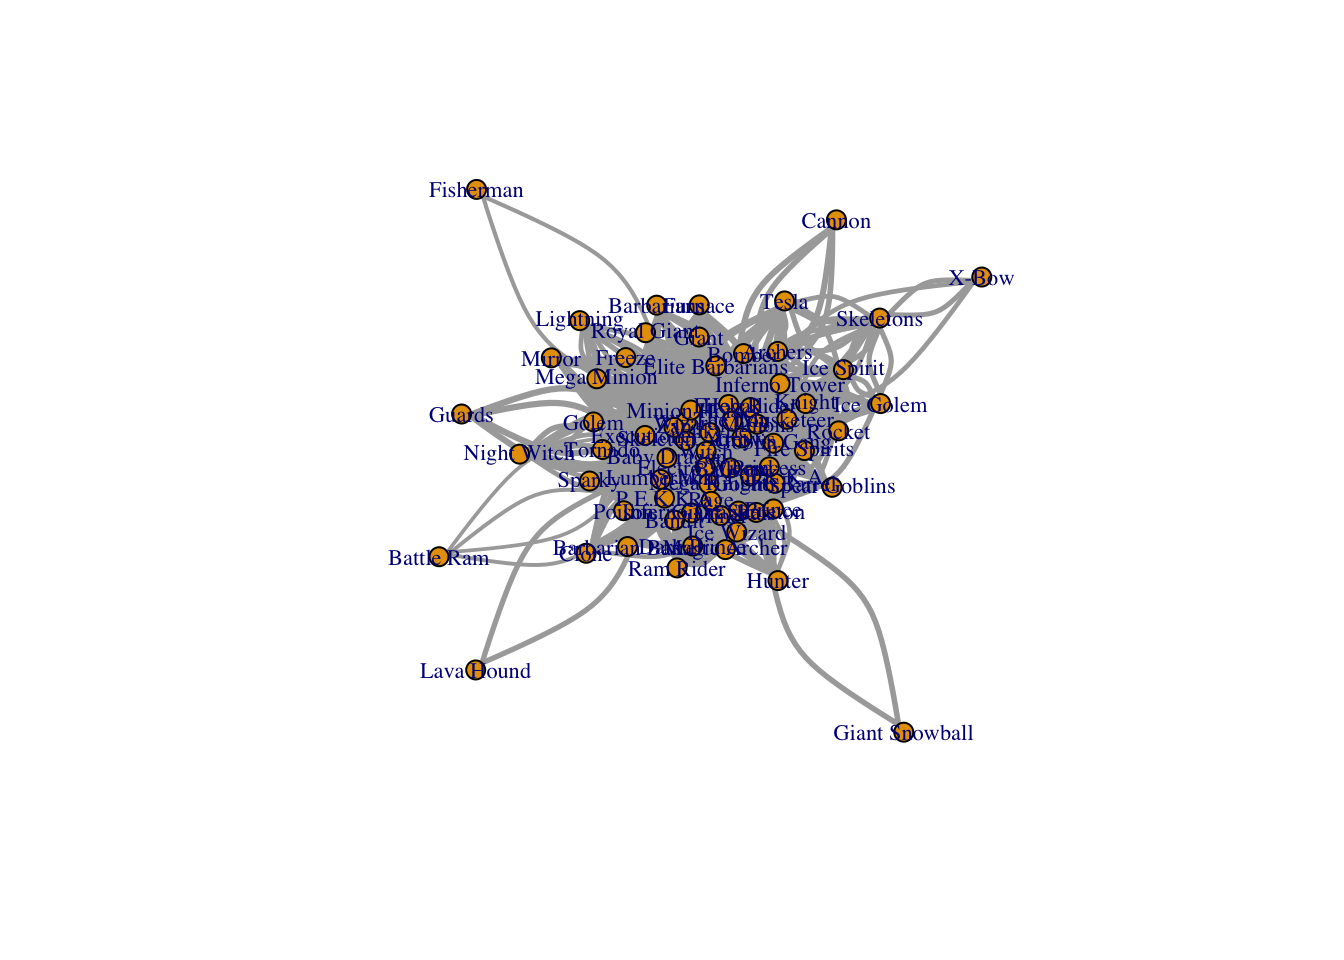
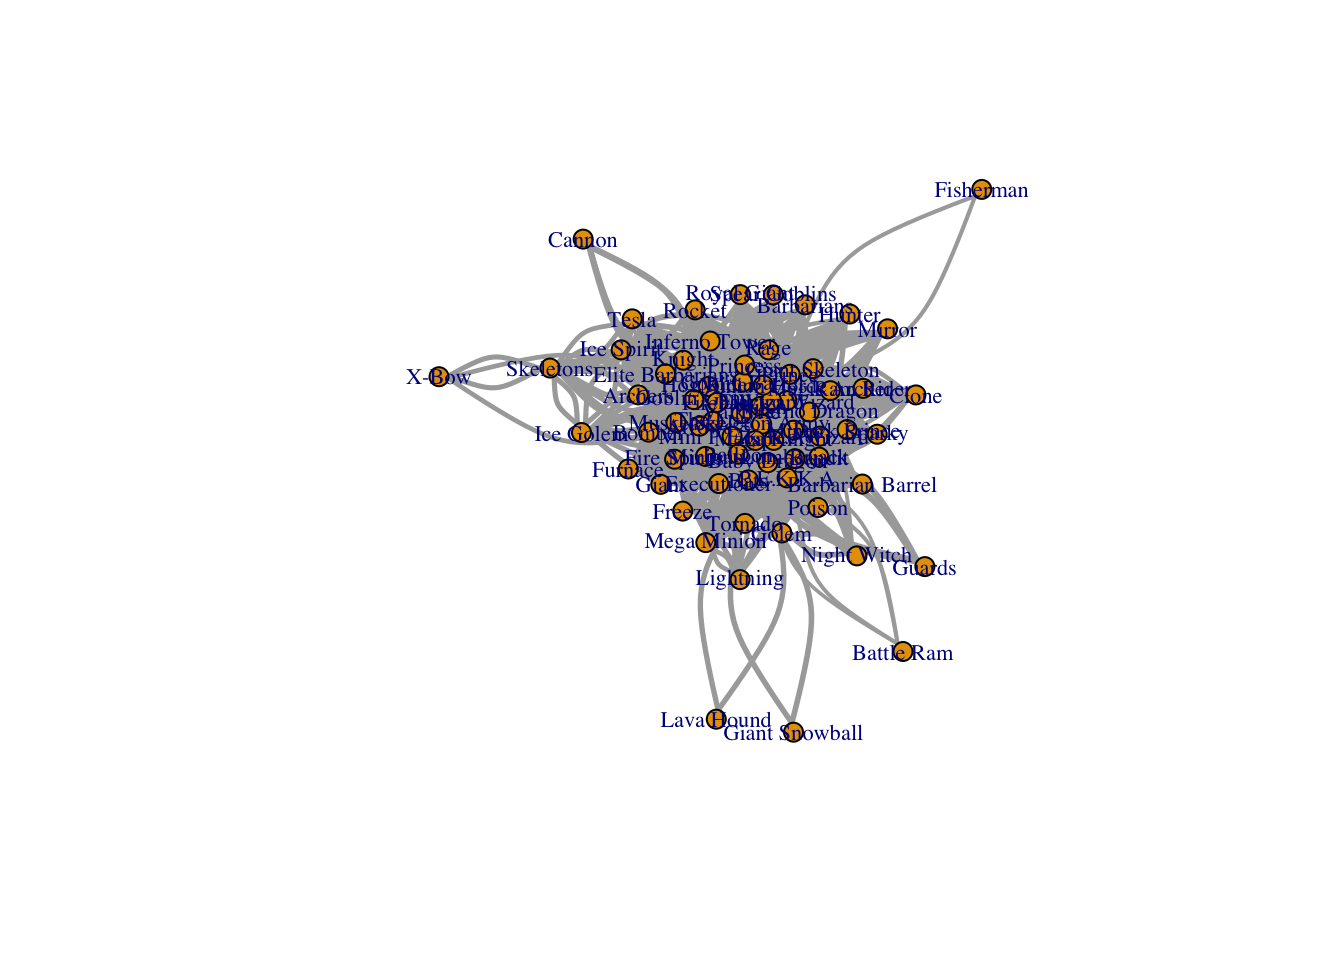
update

Changed region(s): [[0.2812, 0.1875, 0.7812, 0.7812], [0.3125, 0.625, 0.4062, 0.7188], [0.4062, 0.625, 0.4375, 0.6562]]

diff --git a/kevineuyoque/clash_royale/ClashRoyaleDraft.html b/kevineuyoque/clash_royale/ClashRoyaleDraft.html
@@ -241,9 +241,9 @@ pre > code.sourceCode > span > a:first-child::before { text-decoration: underlin
 <span id="cb11-5"><a href="#cb11-5" aria-hidden="true" tabindex="-1"></a></span>
 <span id="cb11-6"><a href="#cb11-6" aria-hidden="true" tabindex="-1"></a>network</span></code><button title="Copy to Clipboard" class="code-copy-button"><i class="bi"></i></button></pre></div>
 <div class="cell-output cell-output-stdout">
-<pre><code>IGRAPH f56ed7f UN-- 69 1572 -- 
+<pre><code>IGRAPH 65d95e6 UN-- 69 1572 -- 
 + attr: name (v/c), decks (e/n), wins (e/n), winrate (e/n)
-+ edges from f56ed7f (vertex names):
++ edges from 65d95e6 (vertex names):
  [1] Hog Rider     --Zap Valkyrie      --Zap Giant Skeleton--Zap
  [4] Baby Dragon   --Zap Mini P.E.K.K.A--Zap Witch         --Zap
  [7] Musketeer     --Zap Balloon       --Zap Arrows        --Zap
@@ -255,7 +255,14 @@ pre > code.sourceCode > span > a:first-child::before { text-decoration: underlin
 + ... omitted several edges</code></pre>
 </div>
 </div>
-<p>In this we see there are 69 cards that pass the greater than 50 decks filter - 69 nodes There is a total of 1572 card pair connections - 1572 edges</p>
+<p>In this we see there are 69 cards that pass the greater than 50 decks filter</p>
+<ul>
+<li>69 nodes</li>
+</ul>
+<p>There is a total of 1572 card pair connections</p>
+<ul>
+<li>1572 edges</li>
+</ul>
 <section id="nodes" class="level2" data-number="2.1">
 <h2 data-number="2.1" class="anchored" data-anchor-id="nodes"><span class="header-section-number">2.1</span> Nodes</h2>
 <p>A node represents one Clash Royale card.</p>
@@ -301,6 +308,8 @@ pre > code.sourceCode > span > a:first-child::before { text-decoration: underlin
 </figure>
 </div>
 </div>
+</div>
+<div class="cell">
 <div class="sourceCode cell-code" id="cb14"><pre class="sourceCode r code-with-copy"><code class="sourceCode r"><span id="cb14-1"><a href="#cb14-1" aria-hidden="true" tabindex="-1"></a><span class="co"># find most connected cards</span></span>
 <span id="cb14-2"><a href="#cb14-2" aria-hidden="true" tabindex="-1"></a>card_degree <span class="ot">&lt;-</span> <span class="fu">degree</span>(network)</span>
 <span id="cb14-3"><a href="#cb14-3" aria-hidden="true" tabindex="-1"></a><span class="fu">sort</span>(card_degree, <span class="at">decreasing =</span> <span class="cn">TRUE</span>)[<span class="dv">1</span><span class="sc">:</span><span class="dv">10</span>]</span></code><button title="Copy to Clipboard" class="code-copy-button"><i class="bi"></i></button></pre></div>
@@ -317,17 +326,19 @@ pre > code.sourceCode > span > a:first-child::before { text-decoration: underlin
 <span id="cb16-5"><a href="#cb16-5" aria-hidden="true" tabindex="-1"></a></span>
 <span id="cb16-6"><a href="#cb16-6" aria-hidden="true" tabindex="-1"></a>network_small <span class="ot">&lt;-</span> <span class="fu">graph_from_data_frame</span>(pair_data_small, <span class="at">directed =</span> <span class="cn">FALSE</span>)</span>
 <span id="cb16-7"><a href="#cb16-7" aria-hidden="true" tabindex="-1"></a></span>
-<span id="cb16-8"><a href="#cb16-8" aria-hidden="true" tabindex="-1"></a>lay <span class="ot">&lt;-</span> <span class="fu">layout_with_fr</span>(network_small, <span class="at">niter =</span> <span class="dv">5000</span>)</span>
-<span id="cb16-9"><a href="#cb16-9" aria-hidden="true" tabindex="-1"></a></span>
-<span id="cb16-10"><a href="#cb16-10" aria-hidden="true" tabindex="-1"></a><span class="fu">plot</span>(network_small,</span>
-<span id="cb16-11"><a href="#cb16-11" aria-hidden="true" tabindex="-1"></a>     <span class="at">layout =</span> lay,</span>
-<span id="cb16-12"><a href="#cb16-12" aria-hidden="true" tabindex="-1"></a>     <span class="at">vertex.size =</span> <span class="dv">6</span>,</span>
-<span id="cb16-13"><a href="#cb16-13" aria-hidden="true" tabindex="-1"></a>     <span class="at">vertex.label.cex =</span> <span class="fl">0.75</span>,</span>
-<span id="cb16-14"><a href="#cb16-14" aria-hidden="true" tabindex="-1"></a>     <span class="at">edge.width =</span> <span class="fu">E</span>(network_small)<span class="sc">$</span>winrate <span class="sc">*</span> <span class="dv">4</span>)</span></code><button title="Copy to Clipboard" class="code-copy-button"><i class="bi"></i></button></pre></div>
+<span id="cb16-8"><a href="#cb16-8" aria-hidden="true" tabindex="-1"></a><span class="co"># gives layout more time to spread out</span></span>
+<span id="cb16-9"><a href="#cb16-9" aria-hidden="true" tabindex="-1"></a>lay <span class="ot">&lt;-</span> <span class="fu">layout_with_fr</span>(network_small, <span class="at">niter =</span> <span class="dv">5000</span>)</span>
+<span id="cb16-10"><a href="#cb16-10" aria-hidden="true" tabindex="-1"></a></span>
+<span id="cb16-11"><a href="#cb16-11" aria-hidden="true" tabindex="-1"></a><span class="co"># plot</span></span>
+<span id="cb16-12"><a href="#cb16-12" aria-hidden="true" tabindex="-1"></a><span class="fu">plot</span>(network_small,</span>
+<span id="cb16-13"><a href="#cb16-13" aria-hidden="true" tabindex="-1"></a>     <span class="at">layout =</span> lay,</span>
+<span id="cb16-14"><a href="#cb16-14" aria-hidden="true" tabindex="-1"></a>     <span class="at">vertex.size =</span> <span class="dv">3</span>,</span>
+<span id="cb16-15"><a href="#cb16-15" aria-hidden="true" tabindex="-1"></a>     <span class="at">vertex.label.cex =</span> <span class="fl">0.75</span>,</span>
+<span id="cb16-16"><a href="#cb16-16" aria-hidden="true" tabindex="-1"></a>     <span class="at">edge.width =</span> <span class="fu">E</span>(network_small)<span class="sc">$</span>winrate <span class="sc">*</span> <span class="dv">4</span>)</span></code><button title="Copy to Clipboard" class="code-copy-button"><i class="bi"></i></button></pre></div>
 <div class="cell-output-display">
 <div>
 <figure class="figure">
-<p><img src="ClashRoyaleDraft_files/figure-html/unnamed-chunk-8-2.png" class="img-fluid figure-img" width="672"></p>
+<p><img src="ClashRoyaleDraft_files/figure-html/unnamed-chunk-9-1.png" class="img-fluid figure-img" width="672"></p>
 </figure>
 </div>
 </div>
